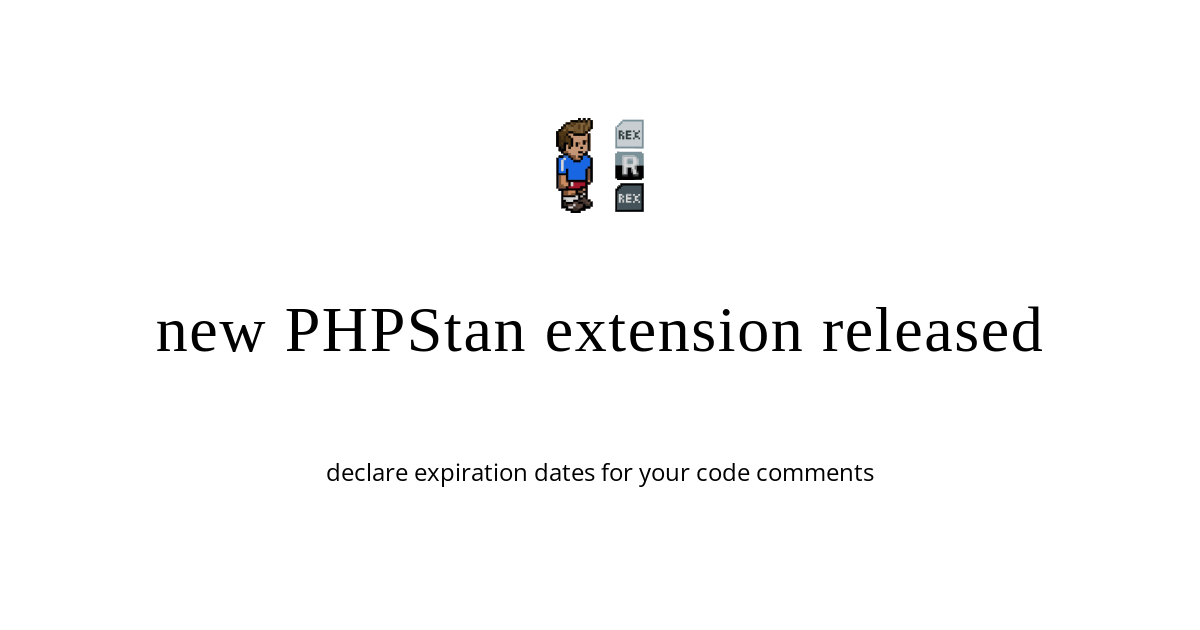
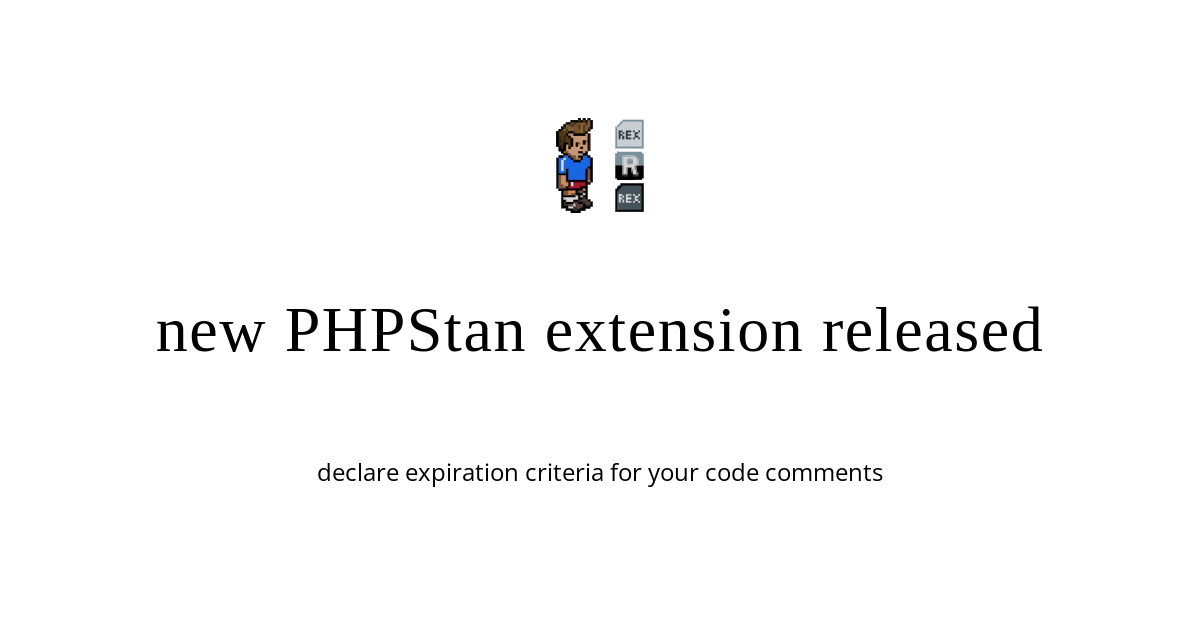
update og-image (#109)

Changed region(s): [[0.2775, 0.7238, 0.74, 0.7841]]

diff --git a/_posts/2023-12-17-phpstan-todo-by-published.md b/_posts/2023-12-17-phpstan-todo-by-published.md
@@ -6,7 +6,7 @@ image: "images/og-images/phpstan-todo-by.jpg"
 
 ogImage:
     title: "new PHPStan extension released"
-    subtitle: "declare expiration dates for your code comments"
+    subtitle: "declare expiration criteria for your code comments"
     imageUrl: "https://staabm.github.io/staabm.svg"
     fileName: "phpstan-todo-by"
 ---
